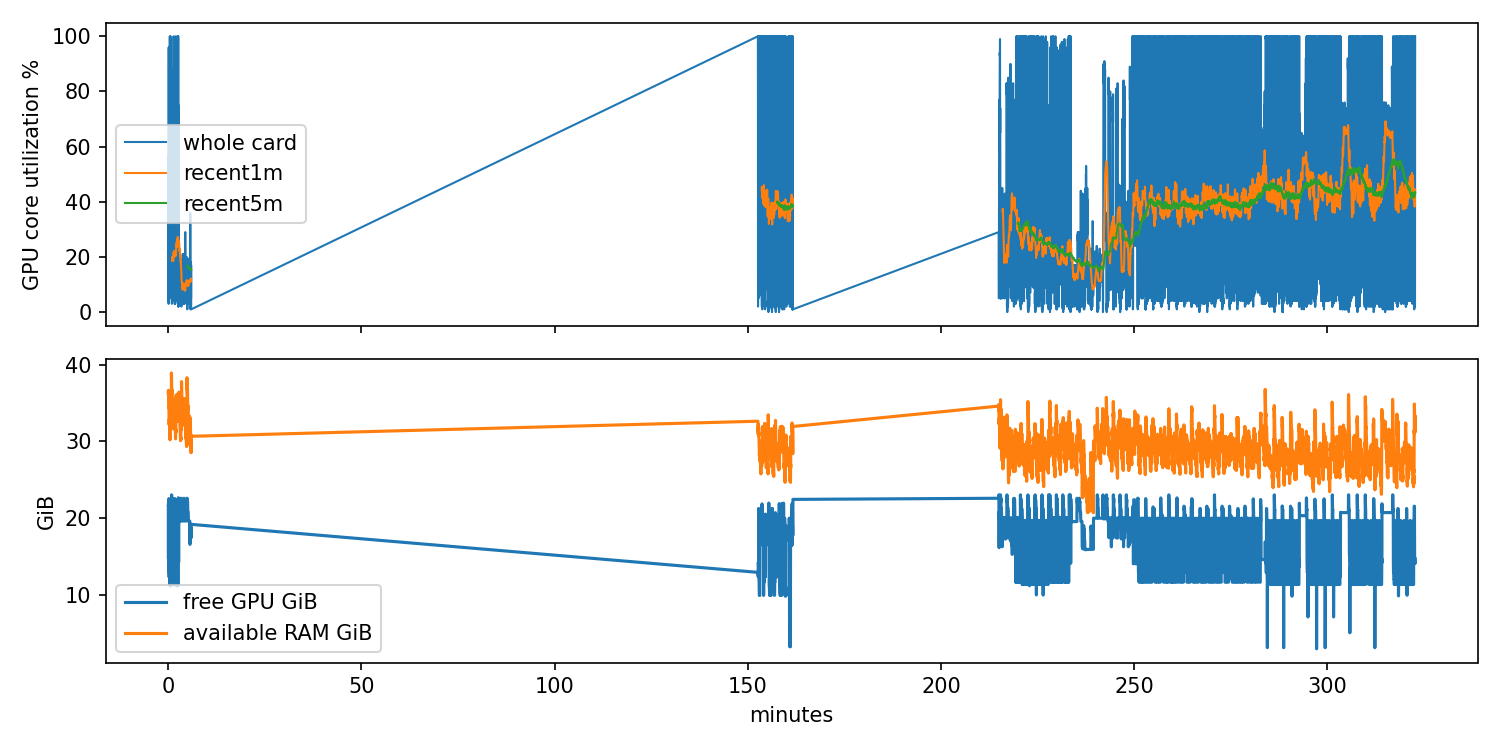
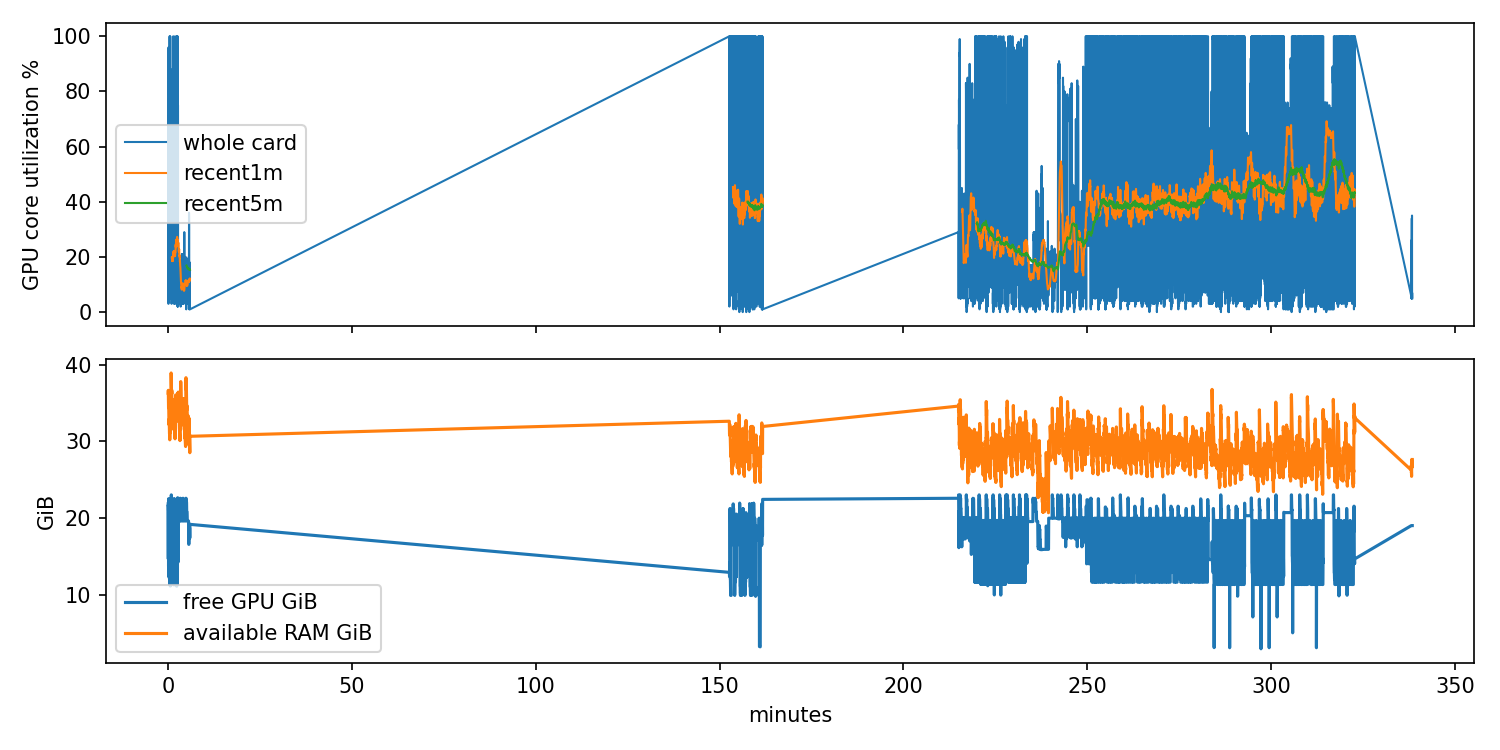
Preserve State checkpoint identity across reviewed runtime source fixes

diff --git a/tests/test_state_full.py b/tests/test_state_full.py
@@ -3,7 +3,7 @@ import pytest
 import torch
 from visuotactile.models.vendor.ema_model import EMAModel
 from visuotactile.state_full_run import should_stop, recover_preaction_start, startup_failure_evidence, Runner
-from visuotactile.state_full_training import split_ids, training_state, restore_training
+from visuotactile.state_full_training import split_ids, training_state, restore_training, validate_training_configuration
 from visuotactile.state_resources import policy
 
 
@@ -175,3 +175,33 @@ def test_resumed_segv_defers_without_expanding_exhausted_retry_budget(tmp_path):
     assert log.read_text() == contents and path.is_dir()
     assert not (tmp_path/(path.name+'_launch.json')).exists()
     assert len(list((tmp_path/'startup_recoveries').glob('*/recovery.json'))) == 3
+
+
+def test_runtime_compatibility_preserves_recipe_and_exact_checkpoint_identity(tmp_path):
+    import json
+    from visuotactile.compact import sha256
+    runner = 'visuotactile/state_full_run.py'
+    trainer = 'visuotactile/state_full_training.py'
+    model = 'visuotactile/state_history.py'
+    frozen = dict(lr=.0001, loss='B', source_sha256={runner:'old runner',trainer:'old trainer',model:'unchanged'})
+    path = tmp_path/'configuration.json'; path.write_text(json.dumps(frozen))
+    digest = sha256(path)
+    assert validate_training_configuration(frozen, path) is None
+    current = copy.deepcopy(frozen)
+    current['source_sha256'].update({runner:'reviewed runner',trainer:'reviewed config validation'})
+    approval = dict(configuration_sha256=digest,source_changes={
+        p:dict(before=frozen['source_sha256'][p],after=current['source_sha256'][p]) for p in (runner,trainer)})
+    with pytest.raises(ValueError):
+        validate_training_configuration(current,path)
+    assert validate_training_configuration(current,path,[approval]) == approval
+    for field, value in [('lr',.001),('loss','A')]:
+        changed = dict(current,**{field:value})
+        with pytest.raises(ValueError):
+            validate_training_configuration(changed,path,[approval])
+    for source in (trainer,model):
+        changed = copy.deepcopy(current); changed['source_sha256'][source] = 'unreviewed change'
+        with pytest.raises(ValueError):
+            validate_training_configuration(changed,path,[approval])
+    with pytest.raises(ValueError):
+        validate_training_configuration(current,path,[dict(approval,configuration_sha256='wrong file')])
+    assert sha256(path) == digest

diff --git a/visuotactile/state_full_training.py b/visuotactile/state_full_training.py
@@ -48,6 +48,29 @@ def restore_training(saved, model, averaged, optimizer, ema, generator, noise):
     torch.set_rng_state(saved['torch_rng']); torch.cuda.set_rng_state_all(saved['cuda_rng'])
 
 
+def validate_training_configuration(config, path, approvals=()):
+    """Keep checkpoint identity frozen; accept only explicitly reviewed hash pairs."""
+    frozen = json.loads(path.read_text())
+    if frozen == config:
+        return None
+    old_sources = frozen.get('source_sha256', {})
+    new_sources = config.get('source_sha256', {})
+    unchanged_recipe = dict(config, source_sha256=old_sources) == frozen
+    if not unchanged_recipe or old_sources.keys() != new_sources.keys():
+        raise ValueError('Training configuration drift')
+    changes = {p: dict(before=old_sources[p], after=new_sources[p])
+        for p in old_sources if old_sources[p] != new_sources[p]}
+    runtime_files = {'visuotactile/state_full_run.py', 'visuotactile/state_resources.py',
+        'visuotactile/state_full_training.py'}
+    if not changes or not set(changes) <= runtime_files:
+        raise ValueError('Unreviewed training source drift')
+    for approval in approvals:
+        if (approval.get('configuration_sha256') == sha256(path)
+                and approval.get('source_changes') == changes):
+            return approval
+    raise ValueError('Training source changes require exact reviewed hash pairs')
+
+
 def train(root, output, kind, target, pilot=False, final_test=False):
     require_foundation(root)
     output.mkdir(parents=True, exist_ok=True)
@@ -64,8 +87,10 @@ def train(root, output, kind, target, pilot=False, final_test=False):
         schedule='one fixed cosine horizon, never restarted at milestones', loss='B', seed=20261102,
         expert_normalizer_sha256=session['expert_sha256'], source_sha256=session['implementation_sha256'])
     if (directory/'configuration.json').exists():
-        if json.loads((directory/'configuration.json').read_text()) != config:
-            raise ValueError('Training configuration drift')
+        compatibility = validate_training_configuration(config, directory/'configuration.json',
+            session.get('training_runtime_compatibility', []))
+        if compatibility is not None:
+            atomic_json(output/'runtime_configuration_compatibility.json', compatibility)
     else:
         atomic_json(directory/'configuration.json', config)
     ids = train_ids+val_ids

diff --git a/research_docs/CHANGELOG.md b/research_docs/CHANGELOG.md
@@ -1,5 +1,18 @@
 # Engineering change and verification log
 
+## 2026-11-02 — preserve frozen checkpoint identity across reviewed runtime changes
+
+- Startup classification resumed correctly, but DP19000 refused configuration drift:
+  the frozen source map also included the changed owner. Both pre-update attempts
+  are preserved in runtime_recovery_04; no new updates or model/optimizer loads.
+- state_full_training validates an explicitly registered frozen-config SHA and exact
+  before/after source hashes for reviewed runtime files only. Every numerical recipe
+  field remains equal; original configuration/checkpoint files are never rewritten.
+  Training/data/EMA/RNG/sampler/serialization suffix verified bytewise unchanged.
+-10 tests pass, including rejecting changed loss/LR/model, unreviewed trainer hashes,
+  and wrong configuration identity. Actual checkpoint remains10000. Prior automatic
+  retry allowance remains consumed; same-budget manual resume follows this concrete fix.
+
 ## 2026-11-02 — full State10000 evidence and classified startup SIGSEGV
 
 - BC10000 train320 complete, selected native diagnostic0/12 (all timeout, no lift).

diff --git a/research_docs/SESSION_HANDOFF.md b/research_docs/SESSION_HANDOFF.md
@@ -1,5 +1,13 @@
 # 当前会话交接：视觉—触觉研究
 
+22:52UTC+8 follow-up: runtime amendment44e9424 was correctly deferred, but DP19000
+configuration guard rejected the changed owner source hash before any update.
+runtime_recovery_04 preserves both empty attempts and consumed automatic retry.
+New validation permits only reviewed exact config SHA/source-hash pairs while keeping
+all training recipe/model fields and original checkpoint/config bytes unchanged.
+Numerical trainer suffix unchanged;10tests pass; actual last checkpoint10000 verified.
+Read independent startup evidence/current status; service active alone is insufficient.
+
 ## 2026-11-02 22:43UTC+8 — BC10000 complete, DP10000, startup SIGSEGV
 
 BC fulltrain320/val40 complete10000; selected diagnostic0/12 all601timeout/no lift.

diff --git a/AGENTS.md b/AGENTS.md
@@ -2,6 +2,12 @@
 
 ## Current override — 2026-11-02 full recurrent State learning
 
+22:52UTC+8 follow-up: owner amendment hit frozen training source-map mismatch before
+updates. runtime_recovery_04 retains both empty attempts/consumed trainer retry. Exact
+reviewed config-SHA/source-before-after compatibility permits this runtime-only change;
+original recipe/config/checkpoint and numerical trainer suffix unchanged,10tests pass.
+No blanket source bypass, extra automatic retry or budget/deadline reset. Verify startup.
+
 22:43UTC+8 review: fullBC10000/train320 complete, selected diagnostic0/12 no lift;
 DP10000 reached,10k milestone0/3 (one lift/fall227), fourth pre-scene SIGSEGV(-11).
 Known fatal FileThread/omniClientFreeContent stack plus confirmedexit-11 and sole

diff --git a/research_docs/CONTRACTS.md b/research_docs/CONTRACTS.md
@@ -1,5 +1,14 @@
 # Audited contracts
 
+## 2026-11-02 reviewed runtime source compatibility
+
+Full State checkpoint/configuration bytes stay immutable when the owner or configuration
+validation changes. A session may explicitly register the frozen configuration SHA and
+exact reviewed before/after hashes for runtime files; no blanket source-ignore option.
+Every numerical recipe field must still match, model changes are rejected, and the
+owner checks current source hashes. Compatibility evidence is saved in each resumed
+stage. This does not reset update/LR/EMA/RNG budgets or allow automatic extra retries.
+
 ## 2026-11-02 full State execution and query correction
 
 Latest user authorizes full recurrent train320, validation40 and once-after-selection
